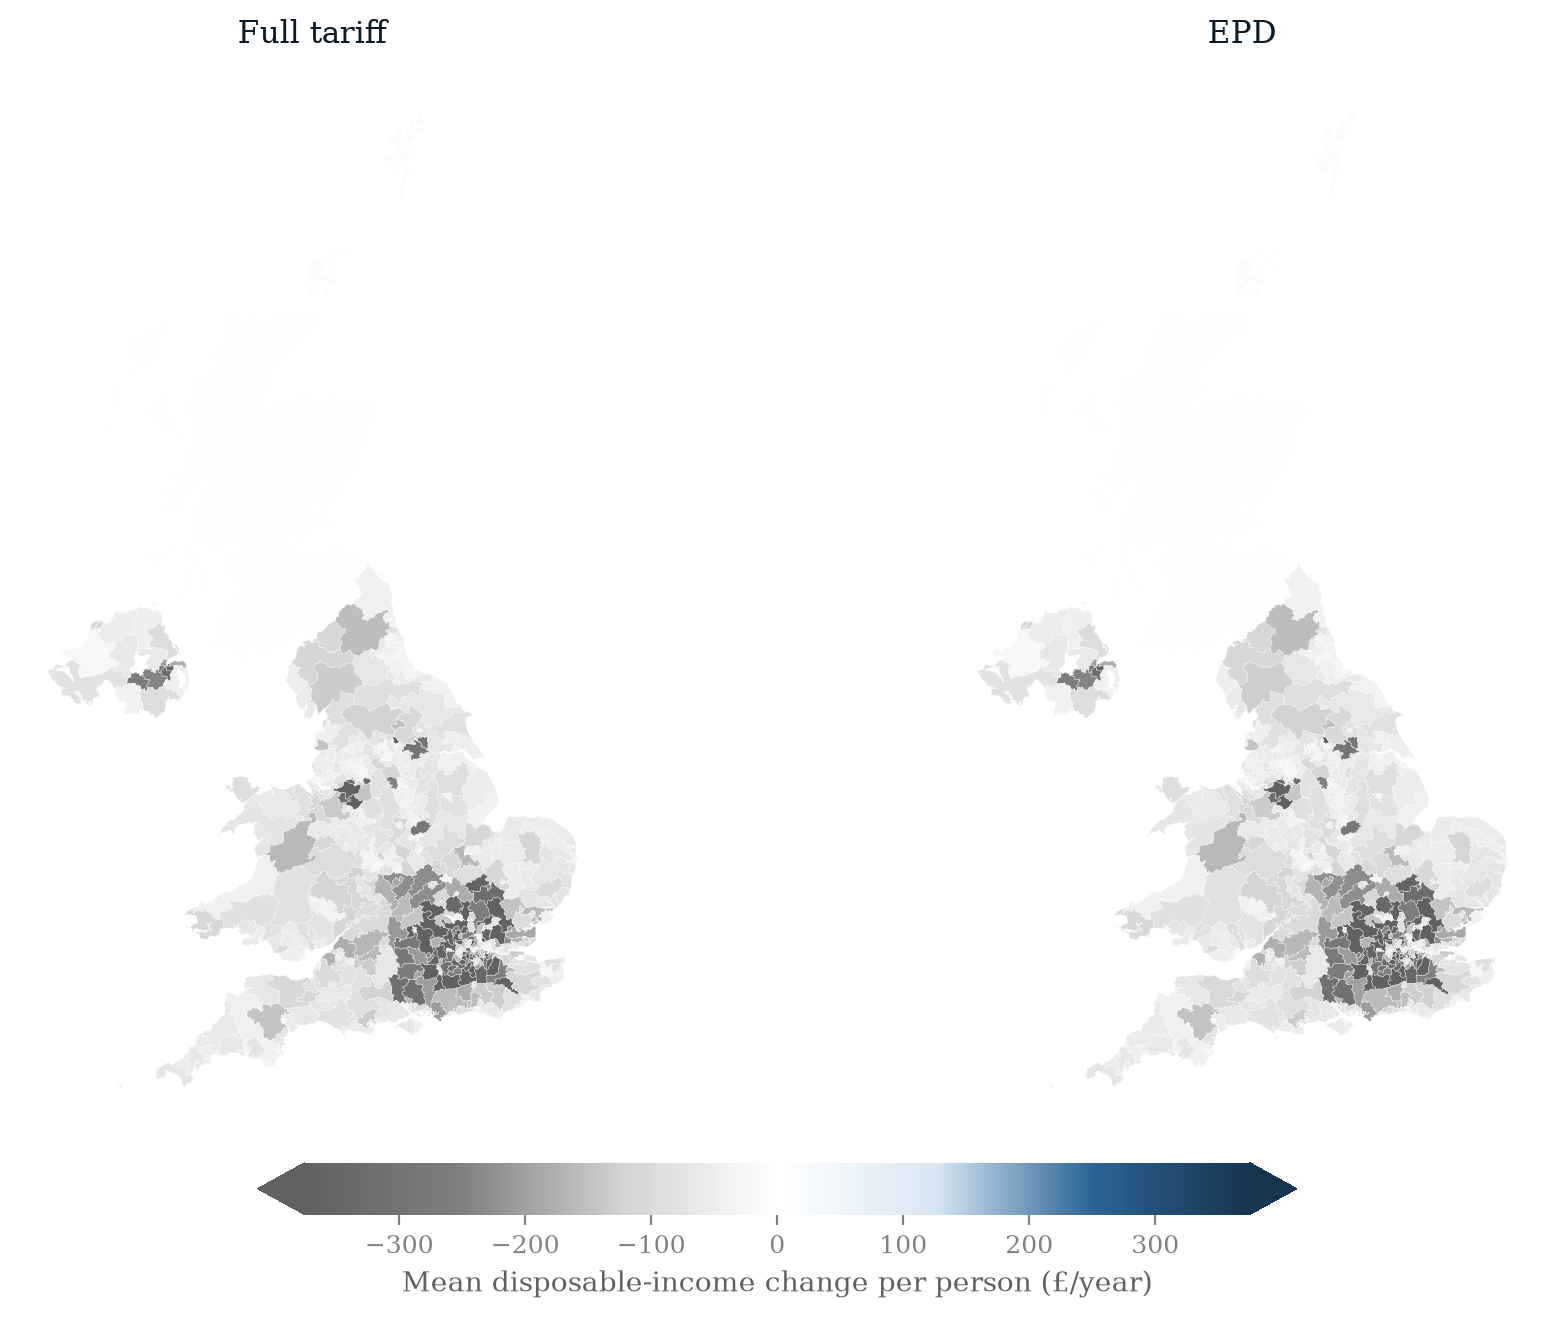
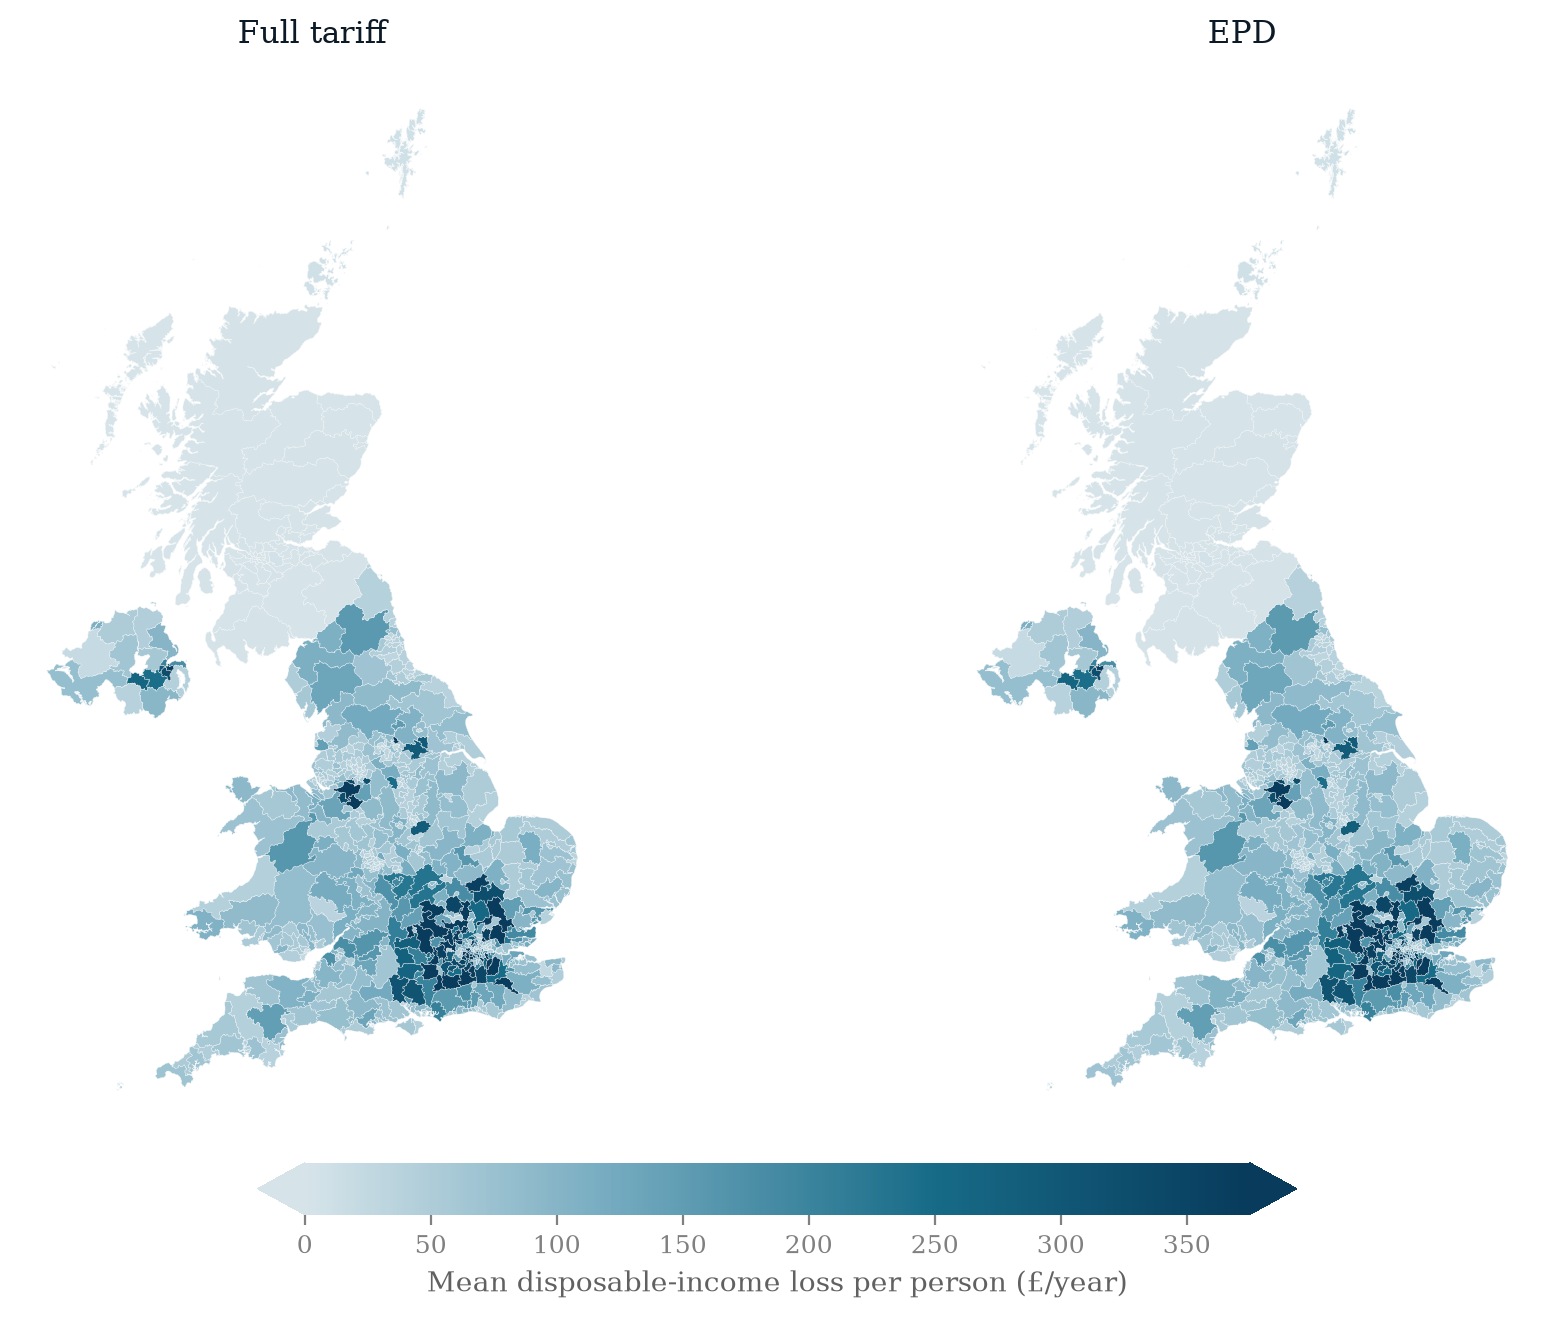
Clarify tariff transmission and revise maps

diff --git a/analysis/geo_choropleth.py b/analysis/geo_choropleth.py
@@ -1,22 +1,9 @@
-"""Choropleth maps of the tariff shock: constituency (650 seats) and ITL1 regions.
+"""Constituency choropleth for the tariff stress scenarios.
 
-Reads the cached scenario results (results/full_tariff_displacement.json and
-results/epd_displacement.json, Monte-Carlo mean across draws), joins the
-per-region mean disposable-income change per person onto ITL1 region polygons, and draws a
-two-panel choropleth pair in the house style: full-tariff displacement on the
-left, EPD (effective protection deflated) displacement on the right, on a
-shared diverging scale (grey losses, blue gains, white at zero).
-
-Region polygons are dissolved from the 2024 Westminster constituency
-boundaries (data/uk_constituencies_2024.geojson, copied from the same local
-source the AI-study template uses): English seats carry a CTR_REG government
-office region, Scottish/Welsh/Northern Irish seats carry only Country, which
-is the region itself.
-
-No microsimulation is run here -- this is presentation only, off cached JSON.
+Reads the cached constituency results and produces full-tariff and EPD panels
+on a shared sequential loss scale. No microsimulation is run here.
 """
 
-import json
 import sys
 from pathlib import Path
 
@@ -24,7 +11,7 @@ import numpy as np
 import geopandas as gpd
 import matplotlib.pyplot as plt
 from matplotlib.cm import ScalarMappable
-from matplotlib.colors import TwoSlopeNorm
+from matplotlib.colors import LinearSegmentedColormap, Normalize
 
 ROOT = Path(__file__).resolve().parents[1]
 sys.path.insert(0, str(ROOT / "analysis"))
@@ -32,56 +19,6 @@ import figstyle  # noqa: E402
 
 BOUNDARIES = ROOT / "data" / "uk_constituencies_2024.geojson"
 FIGDIR = ROOT / "results" / "figures"
-
-# Map the results-JSON region keys onto the boundary file's region labels.
-# English constituencies carry CTR_REG; Scotland/Wales/NI carry Country only.
-REGION_KEYS = {
-    "NORTH_EAST": "North East",
-    "NORTH_WEST": "North West",
-    "YORKSHIRE": "Yorkshire and the Humber",
-    "EAST_MIDLANDS": "East Midlands",
-    "WEST_MIDLANDS": "West Midlands",
-    "EAST_OF_ENGLAND": "East of England",
-    "LONDON": "Greater London",
-    "SOUTH_EAST": "South East",
-    "SOUTH_WEST": "South West",
-    "SCOTLAND": "Scotland",
-    "WALES": "Wales",
-    "NORTHERN_IRELAND": "Northern Ireland",
-}
-
-PANELS = [
-    ("full_tariff_displacement.json", "Full tariff"),
-    ("epd_displacement.json", "EPD"),
-]
-
-
-def load_regions():
-    gdf = gpd.read_file(BOUNDARIES)[["CTR_REG", "Country", "geometry"]]
-    # English seats: government office region; devolved nations: the country.
-    gdf["region_name"] = np.where(
-        gdf["CTR_REG"].fillna("").str.len() > 0, gdf["CTR_REG"], gdf["Country"]
-    )
-    # Repair invalid constituency polygons before the union, else GEOS raises
-    # a side-location conflict during dissolve.
-    gdf["geometry"] = gdf["geometry"].make_valid()
-    regions = gdf[["region_name", "geometry"]].dissolve(by="region_name").reset_index()
-    # The GeoJSON is mislabelled EPSG:4326 but its coordinates are already
-    # British National Grid eastings/northings; assign the true CRS (no reproject).
-    return regions.set_crs(27700, allow_override=True)
-
-
-def region_values(path):
-    """Monte-Carlo mean of the per-region income change across all draws."""
-    data = json.loads(Path(path).read_text())
-    per_draw = [d["region_income_change"] for d in data["draws"]]
-    keys = set().union(*per_draw)
-    vals = {k: float(np.mean([d.get(k, 0.0) for d in per_draw])) for k in keys}
-    missing = set(REGION_KEYS) - set(vals)
-    if missing:
-        print(f"warning: {path.name} missing regions {sorted(missing)}")
-    return {REGION_KEYS[k]: v for k, v in vals.items() if k in REGION_KEYS}
-
 
 def constituency_map():
     """Two-panel 650-constituency choropleth (full | EPD), shared scale.
@@ -107,15 +44,25 @@ def constituency_map():
         ("income_change_gbp_per_person_full", "Full tariff"),
         ("income_change_gbp_per_person_epd", "EPD"),
     ]
-    allv = np.concatenate([merged[c].to_numpy() for c, _ in cols])
-    vmax = float(np.nanpercentile(np.abs(allv), 95)) or float(np.abs(allv).max())
-    norm = TwoSlopeNorm(vcenter=0.0, vmin=-vmax, vmax=vmax)
-    cmap = figstyle.DIVERGING
+    # Every constituency value is a loss. Plot positive loss magnitudes on a
+    # sequential scale whose low end is visibly blue-grey rather than white;
+    # the old diverging midpoint made small but non-zero losses disappear.
+    loss_cols = []
+    for col, _ in cols:
+        loss_col = f"{col}_loss"
+        merged[loss_col] = np.maximum(-merged[col].to_numpy(float), 0.0)
+        loss_cols.append(loss_col)
+    allv = np.concatenate([merged[c].to_numpy() for c in loss_cols])
+    vmax = float(np.nanpercentile(allv, 95)) or float(np.nanmax(allv))
+    norm = Normalize(vmin=0.0, vmax=vmax, clip=True)
+    cmap = LinearSegmentedColormap.from_list(
+        "visible_losses", ["#D6E4EA", "#72A9BE", "#176B87", "#083B5C"]
+    )
 
     fig, axes = plt.subplots(1, 2, figsize=(11.0, 7.5))
-    for ax, (col, label) in zip(axes, cols):
-        merged.plot(column=col, cmap=cmap, norm=norm, ax=ax,
-                    edgecolor="white", linewidth=0.1)
+    for ax, ((_, label), loss_col) in zip(axes, zip(cols, loss_cols)):
+        merged.plot(column=loss_col, cmap=cmap, norm=norm, ax=ax,
+                    edgecolor="#F4F7F8", linewidth=0.12)
         ax.set_aspect("equal")
         ax.axis("off")
         ax.set_title(label)
@@ -124,7 +71,7 @@ def constituency_map():
     cbar = fig.colorbar(sm, ax=list(axes), orientation="horizontal",
                         fraction=0.045, pad=0.02, extend="both")
     cbar.outline.set_visible(False)
-    cbar.set_label("Mean disposable-income change per person (£/year)")
+    cbar.set_label("Mean disposable-income loss per person (£/year)")
 
     FIGDIR.mkdir(parents=True, exist_ok=True)
     path = FIGDIR / "map_constituency_income_change.png"
@@ -134,49 +81,9 @@ def constituency_map():
 
 
 def main():
-    figstyle.apply_style()
-    regions = load_regions()
-
-    panel_vals = []
-    for fname, _ in PANELS:
-        vals = region_values(ROOT / "results" / fname)
-        unmatched = set(regions["region_name"]) - set(vals)
-        if unmatched:
-            print(f"warning: boundary regions with no value in {fname}: {sorted(unmatched)}")
-        panel_vals.append(vals)
-
-    # Shared symmetric diverging scale across both panels (grey losses, blue
-    # gains, white at zero), clipped at the 95th percentile of |value| so a
-    # single extreme region does not crush the gradient.
-    allv = np.array([v for vals in panel_vals for v in vals.values()])
-    vmax = float(np.nanpercentile(np.abs(allv), 95)) or float(np.abs(allv).max())
-    norm = TwoSlopeNorm(vcenter=0.0, vmin=-vmax, vmax=vmax)
-    cmap = figstyle.DIVERGING
-
-    fig, axes = plt.subplots(1, 2, figsize=(11.0, 7.5))
-    for ax, vals, (_, label) in zip(axes, panel_vals, PANELS):
-        gdf = regions.copy()
-        gdf["value"] = gdf["region_name"].map(vals)
-        gdf.plot(column="value", cmap=cmap, norm=norm, ax=ax,
-                 edgecolor="white", linewidth=0.4)
-        ax.set_aspect("equal")
-        ax.axis("off")
-        ax.set_title(label)
-
-    sm = ScalarMappable(norm=norm, cmap=cmap)
-    cbar = fig.colorbar(sm, ax=list(axes), orientation="horizontal",
-                        fraction=0.045, pad=0.02, extend="both")
-    cbar.outline.set_visible(False)
-    cbar.set_label("Mean disposable-income change per person (£/year)")
-
-    FIGDIR.mkdir(parents=True, exist_ok=True)
-    path = FIGDIR / "map_region_income_change.png"
-    fig.savefig(path, dpi=figstyle.DPI, bbox_inches="tight")
-    plt.close(fig)
-    print("wrote", path)
+    if (ROOT / "results" / "geo" / "constituency_impacts.csv").exists():
+        constituency_map()
 
 
 if __name__ == "__main__":
     main()
-    if (ROOT / "results" / "geo" / "constituency_impacts.csv").exists():
-        constituency_map()

diff --git a/paper/sections/appendix.tex b/paper/sections/appendix.tex
@@ -28,15 +28,6 @@ The duration exercise uses five assignments. Its six-month construction retains 
 
 The input--output scenario adds upstream requirements using the ONS domestic Leontief inverse. The accounting shock has a 1.95 direct-plus-upstream factor. It is not a lower bound and is not multiplied by local-employment multipliers. In the exploratory five-assignment microsimulation, displacement affects 69,255 weighted workers on average, costs the Exchequer \pounds $1.801\pm0.544$ billion and raises relative BHC poverty by $0.073\pm0.011$ percentage points. The wage-cut variant costs \pounds 1.904 billion and raises poverty by 0.031 points. These figures are accounting sensitivities, not all-channel causal estimates.
 
-\section{Regional incidence}
-
-\begin{figure}[htbp]
-\centering
-\includegraphics[width=.95\textwidth]{../results/figures/map_region_income_change.png}
-\caption{Regenerated regional mean disposable-income changes under full and EPD displacement. Rankings are illustrative and the underlying spread is assignment dispersion.}
-\label{fig:region-maps}
-\end{figure}
-
 \section{Constituency illustration}\label{app:constituency}
 
 The enhanced-FRS constituency layer uses imputed industries rather than observed local industry structure. On the regenerated CSV's \texttt{income\_change\_gbp\_per\_person\_full} field, the ten largest simulated losses are Ealing Central and Acton (\pounds 770), Henley and Thame (\pounds 764), Godalming and Ash (\pounds 598), Sevenoaks (\pounds 579), Orpington (\pounds 540), Chesham and Amersham (\pounds 535), Mid Buckinghamshire (\pounds 525), Hitchin (\pounds 513), Twickenham (\pounds 490) and North East Hampshire (\pounds 483) per person annually. The EPD field gives the same ordering with slightly smaller losses. These are imputation-driven illustrations, not constituency exposure estimates.
@@ -44,6 +35,6 @@ The enhanced-FRS constituency layer uses imputed industries rather than observed
 \begin{figure}[htbp]
 \centering
 \includegraphics[width=.95\textwidth]{../results/figures/map_constituency_income_change.png}
-\caption{Regenerated constituency illustration using the current per-person income-change fields. The map does not use observed constituency industry mix.}
+\caption{Regenerated constituency illustration using annual disposable-income loss per person. A shared sequential scale is clipped at the 95th percentile; its light-blue floor keeps small non-zero losses visible. The map does not use observed constituency industry mix.}
 \label{fig:constituency-map}
 \end{figure}

diff --git a/paper/sections/methodology.tex b/paper/sections/methodology.tex
@@ -29,7 +29,9 @@ The shock enters through primitives, not through an assumed employment effect. T
 s_j \;=\; \tau_j \, x_j \, \varepsilon \, \pi,
 \label{eq:shock}
 \end{equation}
-where $s_j$ is the derived earnings-shock size for SIC 2007 division $j$ (the fraction of the division's employee wage bill removed by the tariff), $\tau_j$ is the tariff rate faced by the division under the schedule, $x_j$ is its US-export intensity, $\varepsilon$ is the export-demand elasticity, and $\pi$ is the pass-through of the sector output loss to the sector wage bill. $x_j$ is US goods exports of the division as a share of division turnover, built from the HMRC uktradeinfo RTS/OTS API (2024 US exports, \pounds 52.5 billion mapped to SIC divisions of a \pounds 55.6 billion customs-basis total, via a documented SITC-to-SIC crosswalk) and ONS Annual Business Survey turnover denominators; Appendix~\ref{app:data} gives the full provenance and validation. The elasticity $\varepsilon = 2.0$ is anchored on the realised outturn: ONS data show UK goods exports to the US falling 24.7 per cent in April 2025, the first full tariff month, against a 12.8 per cent trade-weighted average tariff implied by the schedule and the built intensities ($0.247/0.128 = 1.93$, rounded to 2.0, mid-range of short-run trade elasticities). The pass-through $\pi = 1.0$ places the full sector output loss on the sector wage bill---the appropriate short-run displacement assumption. Because $\varepsilon$ and $\pi$ enter Equation~\eqref{eq:shock} only through their product, all pound-denominated results scale approximately linearly in $\varepsilon\pi$, while cushioning \emph{rates} and margin orderings are essentially invariant to it; Appendix~\ref{app:grid} verifies both properties on a $4 \times 3$ sensitivity grid over $\varepsilon \in \{1.0, 1.5, 2.0, 3.0\}$ and $\pi \in \{0.5, 0.75, 1.0\}$. Since the central $\varepsilon = 2.0$ is anchored on a single month's realised outturn (April 2025), the grid doubles as the uncertainty band around that anchor. The implied aggregate gross earnings loss under the full schedule is \pounds 1.77 billion a year, about 0.06 per cent of GDP on the direct exposed-sector channel, sensibly below the OBR's all-channel scenario range of one-third to three-quarters of a per cent (rising to about 1 per cent at peak in its reciprocal-tariff scenario) \citep{obr2025} and consistent with the UK cell of \citet{ignatenko2025} and UK worker-level responses \citep{delyonpessoa2021, rud2022}. Employment is then an \emph{outcome} of $s_j$ under an assumed adjustment margin---never a free input. The design covers the direct exposed-sector channel only: local-multiplier estimates of 0.4--1.6 additional local jobs per lost tradable job \citep{moretti2010, gathmann2020} illustrate a potentially amplifying channel, while exchange rates, market switching and firm margins may attenuate the direct effect, so the derived shock is not a formal bound (Section~\ref{sec:discussion}). Appendix~\ref{app:supplychain} presents an accounting sensitivity for the first omitted channel, propagating the export-demand falls upstream through the ONS domestic input-output tables via a Leontief round \citep{barrotsauvagnat2016, acemoglu2016}.
+where $s_j$ is an imposed employee-wage-bill stress for SIC 2007 division $j$, $\tau_j$ is its tariff rate, $x_j$ is US-export intensity, $\varepsilon$ is an export-demand calibration and $\pi$ is a \emph{wage-bill-incidence assumption}. Calling $\pi$ pass-through would conflate distinct mechanisms. A structural transmission would separately map the tariff into export prices and quantities, quantities into domestic production and value added, and production into factor demand, productivity, profits, wages, hours and employment. Equation~\eqref{eq:shock} compresses those links into one accounting bridge. It neither estimates a production function nor identifies the causal response of productivity, output or labour demand.
+
+$x_j$ is US goods exports as a share of division turnover, built from HMRC trade data and ONS Annual Business Survey turnover denominators; Appendix~\ref{app:data} documents the provenance. The central $\varepsilon=2.0$ is anchored on a single observed export movement ($0.247/0.128=1.93$, rounded), so it is a scenario calibration rather than an elasticity estimate. The central $\pi=1$ assigns the full calibrated exposure to the employee wage bill; it is intentionally severe and is not established by the economics literature. The sensitivity grid varies $\varepsilon\pi$, but this is parameter sensitivity, not an uncertainty interval around an identified coefficient. The implied \pounds 1.77 billion gross earnings loss is therefore a conditional scenario input. OECD METRO and the UK Trade Modelling Review instead place tariff shocks inside multi-sector production systems in which prices, output, value added and factor demand adjust jointly \citep{luu2020, ditreview2021}; the World Bank HIT framework similarly labels its direct household calculations first-order and excludes productivity and substitution responses \citep{artuc2021}. This paper begins only after those missing production-side mechanisms would have generated a labour-income distribution.
 
 \subsection{The tariff schedule and the EPD counterfactual}\label{sec:method-schedule}
 
@@ -61,4 +63,4 @@ The pipeline therefore re-draws \texttt{would\_claim\_uc} after each shock only 
 
 The Monte Carlo draws describe sensitivity to the artificial assignment of displacement across weighted FRS records. Their standard deviations are assignment dispersion, not sampling standard errors, confidence intervals, or uncertainty about the tariff response, survey design or model parameters. Reported comparisons are descriptive scenario contrasts.
 
-The realisation step---an externally derived shock imposed as status and earnings transitions on survey households, then run through the full benefit rules---follows \citet{brewertasseva2021}, who apply it to the Covid-19 labour-market shock in UKMOD, and the EUROMOD nowcasting tradition of imposed labour-market transitions \citep{navicke2013}. PolicyEngine UK computes baseline and shocked household disposable income (HBAI cash concept throughout), relative before-housing-costs poverty, absolute before-housing-costs poverty against a fixed baseline line (computed manually, since the installed model version exposes no absolute-poverty variable; Appendix~\ref{app:mc}), after-housing-costs poverty, the Gini coefficient of equivalised disposable income, decile and region breakdowns, and the Exchequer effect (foregone tax plus additional benefit spending, via the government balance). Displacement draws are Monte Carlo: every displacement/inactivity result is reported as the mean and standard deviation over $n$ draws (default 20). Following \citet{ignatenko2025}, revenue recycling can flip aggregate employment responses; we compute first-round incidence holding fiscal policy fixed and treat recycling as a policy counterfactual. One scope limitation on the fiscal aggregate should be stated: only direct taxes and benefits respond to the shock. Indirect taxes (VAT and duties) are not shocked, so the consumption-tax revenue foregone on the households' reduced spending is absent from the government balance and the reported Exchequer cost is an understatement of the true first-round fiscal effect.
+The realisation step---an imposed status and earnings transition on survey households, then run through the full benefit rules---follows \citet{brewertasseva2021}, who apply it to the Covid-19 labour-market shock in UKMOD, and the EUROMOD nowcasting tradition of imposed labour-market transitions \citep{navicke2013}. PolicyEngine UK computes baseline and shocked household disposable income (HBAI cash concept throughout), relative before-housing-costs poverty, absolute before-housing-costs poverty against a fixed baseline line, after-housing-costs poverty, the Gini coefficient, distributional breakdowns and the Exchequer effect. Central direct and measured scenarios use 50 assignments; explicitly exploratory appendix diagnostics use five. Following \citet{ignatenko2025}, revenue recycling can flip aggregate employment responses; here fiscal policy is held fixed. Only direct taxes and benefits respond. Indirect taxes are not shocked, so reduced consumption-tax receipts are absent from the government balance.

diff --git a/paper/main.tex b/paper/main.tex
@@ -15,7 +15,7 @@
 \usepackage{natbib}
 \bibliographystyle{apalike}
 
-\title{\bfseries Tariffs Abroad, Transfers at Home\\[0.15cm] How Britain Absorbs a Trade Shock\thanks{\textbf{Acknowledgements:} [TODO].}\\[0.7cm]}
+\title{\bfseries Tax--Benefit Incidence under Alternative Labour-Market Stress Scenarios\\[0.15cm] A UK Tariff Application\thanks{\textbf{Acknowledgements:} [TODO].}\\[0.7cm]}
 \author{Vahid Ahmadi\thanks{Research Associate at PolicyEngine. Email: \href{mailto:[email redacted]}{[email redacted]}.}}
 \date{\small \ifcase\month\or January\or February\or March\or April\or May\or June\or July\or August\or September\or October\or November\or December\fi\ \the\year}
 
@@ -23,7 +23,7 @@
 \maketitle
 
 \begin{abstract}
-\noindent How would alternative direct labour-income responses to a foreign tariff pass through the UK tax--benefit system? I construct sector stress scenarios from the 2025 tariff schedule and US-export intensity by SIC division, then apply wage, displacement, inactivity and reallocation margins to Family Resources Survey households in PolicyEngine UK. The exercise is static and first-round: neither the tariff-to-earnings mapping nor the adjustment margin is causally estimated. Its central object is the decomposition of gross earnings losses into disposable-income and fiscal responses under statutory rules. Displacement is assigned independently at the worker level, and Universal Credit claiming is re-drawn consistently for changed benefit units that are entitled after each shock. Results therefore describe conditional scenarios, with assignment dispersion reported separately from statistical uncertainty; they are not estimates of the tariffs' total macroeconomic or household incidence.
+\noindent This paper asks how the UK tax--benefit system responds to alternative labour-income stress scenarios calibrated to the sectoral exposure of the 2025 US tariffs. It imposes wage, displacement, inactivity and reallocation scenarios on Family Resources Survey households and evaluates the resulting statutory fiscal-incidence changes in PolicyEngine UK. The exercise is static, partial-equilibrium and first-round. It does not model the transmission from tariffs through export prices and quantities, production, value added, productivity and labour demand; instead, it imposes a reduced-form tariff-to-wage-bill bridge. Neither that bridge nor the allocation between wages, employment and inactivity is causally estimated. Results are conditional tax--benefit stress tests, not estimates of the tariffs' macroeconomic, productivity, employment or total household-welfare effects. Assignment dispersion is reported separately from statistical uncertainty.
 \end{abstract}
 
 \medskip

diff --git a/paper/sections/discussion.tex b/paper/sections/discussion.tex
@@ -8,6 +8,8 @@ National poverty effects are small in the central scenarios: $+0.043\pm0.023$ pe
 
 The paired full-minus-EPD displacement contrast is $7{,}782\pm3{,}921$ workers and \pounds $0.170\pm0.144$ billion of annual Exchequer cost. This is a scenario comparison driven substantially by autos, not a causal evaluation of the deal.
 
-The main limitations are structural. The tariff-to-earnings mapping is calibrated rather than estimated; assignment is independent within broad SIC divisions; the inactivity scenario assumes WCA passage for selected older workers; New Style JSA and within-year timing are absent; household labour-supply responses are suppressed; and indirect taxes, exchange rates, market switching, retaliation and general equilibrium are outside the central model. The supply-chain calculation is an accounting sensitivity, not a lower bound, and cannot be mechanically combined with local-employment multipliers. Regional and constituency results are illustrative because local industry is not observed at the required level.
+The main limitation is structural: the model starts at the end of the production-side transmission mechanism. It does not estimate how the tariff changes border prices, export quantities, domestic output, value added, imported-input costs, firm productivity, investment, profits or labour demand. It assigns calibrated exposure directly to the wage bill and then assumes how that loss is divided among wages, employment, inactivity and reallocation. The results therefore answer a conditional fiscal-incidence question---what statutory taxes and transfers do after specified labour-income changes---not what the tariff does to the economy. Assignment is also independent within broad SIC divisions; the inactivity scenario assumes WCA passage for selected older workers; New Style JSA and within-year timing are absent; household labour-supply responses are suppressed; and indirect taxes, exchange rates, market switching, retaliation and general equilibrium are outside the central model. The supply-chain calculation is an accounting sensitivity, not a lower bound, and cannot be mechanically combined with local-employment multipliers. Constituency results are illustrative because local industry is not observed at the required level.
+
+The companion UK AI study suggests useful extensions to the analysis architecture: separate the aggregate shock size from its incidence pattern as factorial scenario axes; add mixed wage--employment adjustment rather than only polar margins; benchmark exposure against external employment data; distinguish literature-calibrated from measured-incidence scenarios; evaluate policy counterfactuals on common draws; and generate paper values from a declared build manifest. Those extensions improve transparency and robustness, but they do not replace the missing trade-to-production first stage. The priority for a substantive extension is therefore a product- or firm-level model linking tariffs to prices, quantities, output, value added and productivity before any household microsimulation is run.
 
 The defensible conclusion is therefore modest. For a given direct earnings loss, the adjustment margin materially changes the mix of tax relief, benefit support, poverty and fiscal cost. Quantifying the realised tariff effect requires causal trade and linked employer--worker evidence beyond this microsimulation.

diff --git a/paper/sections/intro.tex b/paper/sections/intro.tex
@@ -1,10 +1,10 @@
 \section{Introduction}\label{sec:intro}
 
-This paper is a static, first-round stress test of the direct labour-income channel. It does not identify the tariffs' total causal household or macroeconomic effect; the tariff-to-earnings mapping and adjustment margins are scenarios evaluated under statutory tax--benefit rules. Its contribution is a UK household application to the 2025 foreign-tariff shock, complementing existing macro--micro and tariff-incidence work.
+This paper is a static, partial-equilibrium, first-round stress test of the UK tax--benefit system under alternative labour-income scenarios calibrated to sectoral tariff exposure. It is not a model or estimate of the economic transmission of tariffs. In a complete trade model, tariffs first change border prices and quantities, sourcing and market access; firms then adjust production, intermediate demand, value added, mark-ups, investment and productivity; only subsequently do labour demand, hours, wages, employment and household income respond. This paper does not estimate those links. It replaces them with an imposed reduced-form tariff-to-wage-bill bridge and alternative assumed adjustment margins, then evaluates the statutory tax--benefit consequences conditional on each scenario.
 
 Who bears a foreign tariff shock after the tax--benefit system responds---and how much does the answer depend on whether workers adjust through job loss, wage cuts in place, exit into economic inactivity, or reallocation into lower-paid services work? In April 2025 the United States imposed a 10 per cent baseline tariff on UK goods, with 25 per cent rates on cars and steel; the May 2025 Economic Prosperity Deal (EPD) cut the auto rate to 10 per cent on a 100,000-vehicle quota, offered conditional steel relief, and---in a December 2025 side agreement paid for through NHS pricing concessions---exempted pharmaceuticals. A rich institutional literature has traced the macroeconomic, sectoral, regional and firm-level consequences of this shock \citep{obr2025, boe2025, cityredi2025, centreforcities2025}; separate tariff studies map consumer prices and income exposure into heterogeneous household welfare \citep{artuc2021, luu2020}. The narrower missing link is the UK partner-country labour-income channel: no analysis passes this tariff shock through the statutory tax--benefit system to disposable income, poverty and the Exchequer. This paper fills that cell.
 
-The design is primitives-first. The shock enters as the tariff schedule itself, combined with US-export intensity by SIC division (ONS/HMRC trade-by-SIC) and an export-demand elasticity, to yield sector-level earnings shocks; the elasticity (2.0) is anchored on the realised outturn---US-bound goods exports fell 24.7 per cent in the first full tariff month against a 12.8 per cent trade-weighted tariff---and cross-checked against UK worker-level trade-shock estimates \citep{delyonpessoa2021} and the OBR and \citet{ignatenko2025} aggregate anchors. Employment is an \emph{outcome} of the derived shock, not a free input. The derived sector shocks are then realised on Family Resources Survey workers in exposed industries under four adjustment-margin families: \emph{displacement} into unemployment (the China-shock short run of \citealp{autor2013}), \emph{wage cuts with reallocation} into other sectors (the German and Danish long run of \citealp{dauth2021} and \citealp{traiberman2019}), and \emph{exit into inactivity} for older displaced workers---the margin UK deindustrialisation actually chose, when coalfield and steel job losses became benefit-financed economic inactivity rather than measured unemployment \citep{beatty2007, beatty2017}, and \emph{reallocation into services}---the same displaced workers re-employed in retail, health, land transport and food service at an FRS-calibrated 28.3 per cent annual-earnings penalty, the margin the China-shock evidence actually describes \citep{autor2014, dauth2021}. The first three hold the aggregate earnings loss fixed; the fourth removes only the wage penalty on movers, and so is level-comparable with displacement (identical worker sets, paired draws) and rate-comparable with all. PolicyEngine UK, an open-source tax--benefit microsimulation model, computes disposable income, poverty, inequality and the Exchequer position under each.
+The calibration combines the tariff schedule, US-export intensity by SIC division (ONS/HMRC trade-by-SIC) and an export-demand elasticity to construct a sector exposure index. A further parameter maps that index directly to the employee wage bill. This deliberately strong step suppresses the intervening responses of export prices and quantities, domestic sales, imported inputs, production, productivity, profits and capital; it is not a structural production-side equation. The elasticity of 2.0 is an outturn anchor---US-bound goods exports fell 24.7 per cent in the first full tariff month against a 12.8 per cent trade-weighted tariff---rather than a causal estimate. The resulting wage-bill stress is imposed on Family Resources Survey workers through four assumed adjustment families: wage cuts, displacement, inactivity among selected older workers, and reallocation into selected service industries at an FRS-calibrated earnings penalty. PolicyEngine UK then computes the conditional disposable-income, poverty, inequality and Exchequer responses. Employment and wages are scenario inputs at the microsimulation stage, not estimated consequences of the tariff.
 
 The central 50-assignment results show substantial assignment dispersion. Under the full schedule, Bernoulli displacement affects $35{,}313 \pm 10{,}081$ weighted workers, removes \pounds 1.773 billion $\pm$ 0.652 billion of earnings, and is cushioned by $35.6 \pm 4.4$ per cent; the earnings-equivalent wage-cut scenario is cushioned by 41.0 per cent. The corresponding Exchequer costs are \pounds 0.804 billion $\pm$ 0.355 billion and \pounds 0.985 billion. Relative BHC poverty rises by $0.043 \pm 0.023$ percentage points under displacement and does not move under wage cuts. Under the EPD schedule, displacement affects $27{,}531 \pm 9{,}555$ workers, costs the Exchequer \pounds 0.635 billion $\pm$ 0.338 billion and raises poverty by $0.034 \pm 0.016$ points. All $\pm$ values are assignment SDs, not standard errors or confidence intervals.
 

diff --git a/paper/sections/results.tex b/paper/sections/results.tex
@@ -88,10 +88,6 @@ On paired seeds, full minus EPD displacement differs by $7{,}782\pm3{,}921$ work
 \label{fig:epd}
 \end{figure}
 
-\subsection{Regional incidence}\label{sec:results-regions}
-
-Regional means are calculated across the same 50 Bernoulli assignments. Their dispersion is large and rankings are illustrative. They should not be interpreted as estimates of local causal exposure; BRES-linked local industry structure would be required for that claim.
-
 \subsection{Reallocation}\label{sec:results-reallocation}
 
 The reallocation exercise uses five paired assignments and is exploratory. Under the full schedule, the central 28.3 per cent penalty produces a mean gross loss of \pounds 0.597 billion, Exchequer cost of \pounds $0.339\pm0.209$ billion, cushioning of $42.3\pm3.6$ per cent, and essentially zero BHC-poverty change. With a three-month lag, gross loss rises to \pounds 0.975 billion and the Exchequer cost to \pounds $0.549\pm0.339$ billion. The 14 per cent penalty gives gross loss \pounds 0.295 billion and Exchequer cost \pounds $0.171\pm0.108$ billion. Because only selected movers' penalty is removed, these pound levels are not commensurable with the economy-wide wage-cut scenario.

diff --git a/paper/sections/literature.tex b/paper/sections/literature.tex
@@ -23,7 +23,7 @@ The institutional literature on the 2025 shock is rich but stops above the house
 
 For UK trade-shock precedents more broadly, \citet{dhingra2017} map Brexit trade costs to income losses, and \citet{fetzerwang2024} provide the best district-level trade-shock incidence estimates (synthetic-control output losses of 5--10 points concentrated in manufacturing districts); \citet{fetzer2019} and \citet{bloom2019} supply the political-economy and uncertainty channels. On household prices, \citet{breinlich2022} use product-level import shares to identify the pass-through of the referendum depreciation, estimating a 2.9 per cent consumer-price increase and a similar real-wage loss. \citet{levell2017} show why incidence can differ across UK households: food has much greater import content than consumption overall and household budget shares differ. These studies benchmark a consumption-price channel that the present cash-income exercise deliberately holds fixed.
 
-The institutional modelling benchmark is also relevant to what this exercise does and does not claim. The UK Trade Modelling Review recommends a relatively simple, empirically grounded CGE core, complemented by granular partial-equilibrium modules, regional and dynamic extensions, parameter ranges and ex-post validation \citep{ditreview2021}. The OECD operationalises the household link by mapping METRO sector prices into household expenditure and compensating variation \citep{luu2020}; the World Bank instead offers transparent first-order accounting of consumer and income-side exposure while explicitly excluding substitution, variety and productivity responses \citep{artuc2021}. Relative to those economy-wide or price-side tools, this paper is a deliberately partial-equilibrium fiscal-incidence module rather than a complete household-welfare evaluation.
+The institutional modelling benchmark is also relevant to what this exercise does and does not claim. The UK Trade Modelling Review recommends a relatively simple, empirically grounded CGE core, complemented by granular partial-equilibrium modules, regional and dynamic extensions, parameter ranges and ex-post validation \citep{ditreview2021}. In that architecture the tariff is a policy primitive: relative prices and trade quantities adjust first, production and sectoral value added respond next, and factor demand, wages and employment emerge jointly with reallocation across activities. Firm heterogeneity adds selection and productivity responses, while input--output structure transmits intermediate-cost and demand shocks. The OECD METRO model embodies this sequence in a multi-sector, multi-region production system before mapping induced prices into household expenditure and compensating variation \citep{luu2020}. The World Bank instead offers transparent first-order household accounting of consumer and producer-income exposure, while explicitly excluding substitution, variety and productivity responses that can dominate beyond the short run \citep{artuc2021}. Relative to those economy-wide or price-side tools, this paper supplies only the terminal tax--benefit module: it conditions on an imposed labour-income distribution rather than deriving it from production, productivity or labour demand.
 
 \subsection{Tax--benefit cushioning of earnings shocks}
 